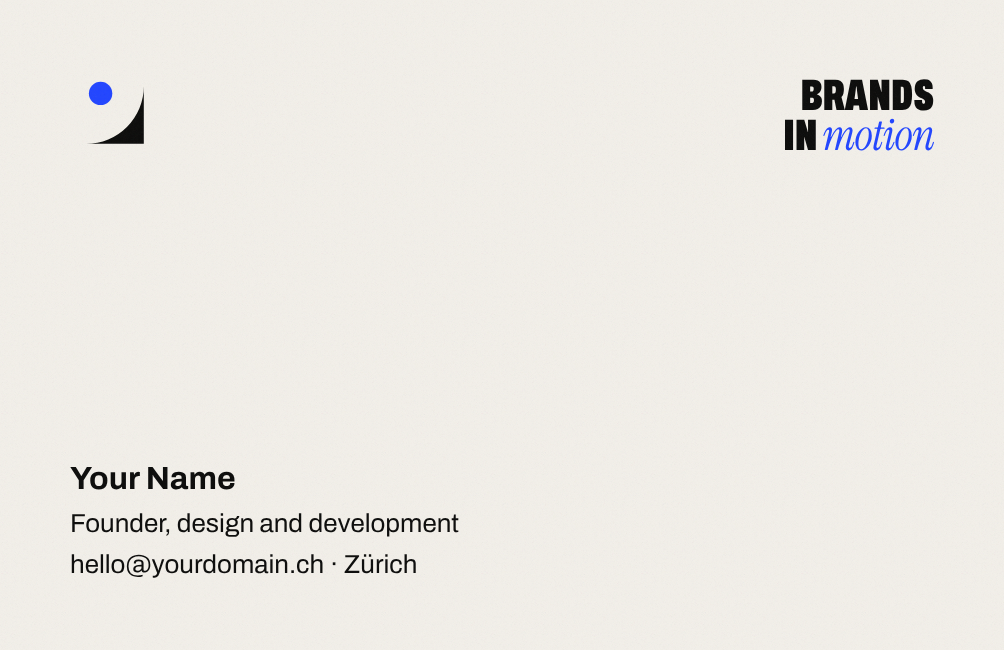
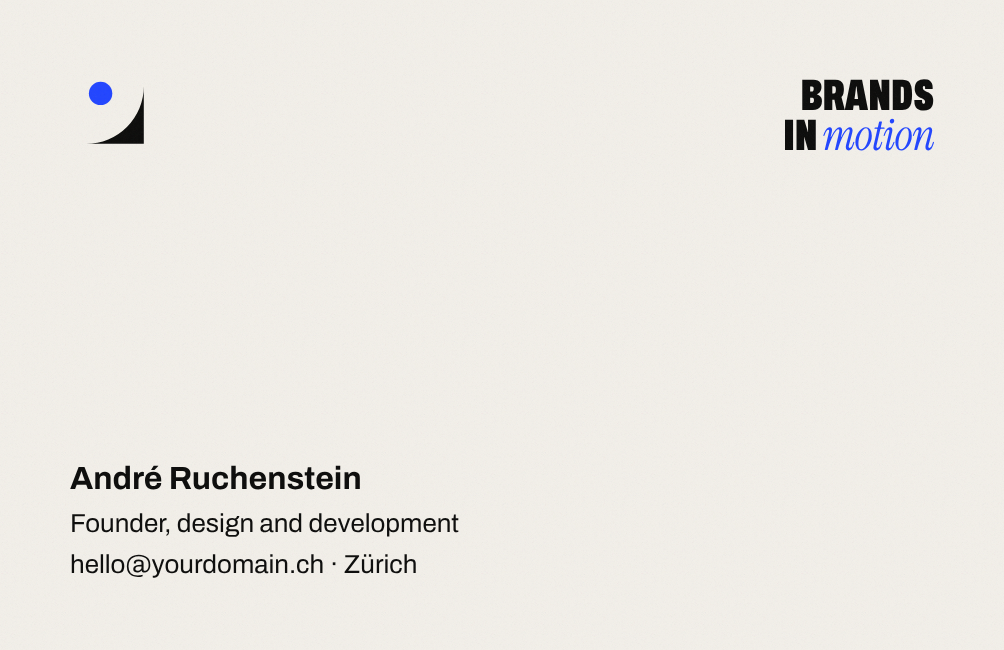
Add André Ruchenstein to business card and signature, domain notes
Claude-Session: https://claude.ai/code/session_01XBeumYXPmiveuZtxEjDWPY

Changed region(s): [[0.0618, 0.7077, 0.3705, 0.7692]]

diff --git a/Unterlagen für André/BRAND.md b/Unterlagen für André/BRAND.md
@@ -18,7 +18,7 @@ Ich konnte von hier aus nur im Web suchen, nicht in den offiziellen Registern. P
 
 1. **Firmenname:** [zefix.ch](https://www.zefix.ch) → nach "schwung" suchen.
 2. **Marke:** [swissreg.ch](https://www.swissreg.ch) (Schweiz) und [euipo.europa.eu](https://euipo.europa.eu) (EU) → Klasse 42 (Webdesign) und 35 (Werbung).
-3. **Domain:** z. B. bei hostpoint.ch: `schwung.ch` ist vermutlich vergeben. Gute Alternativen: `schwung.studio`, `schwungstudio.ch`, `studio-schwung.ch`.
+3. **Domain:** `schwung.ch` und `schwung.design` sind vergeben (sie haben schon eine Website). `schwungstudio.ch`, `schwung-studio.ch` und `schwung.studio` waren beim Test nicht belegt. Das ist ein gutes Zeichen, aber kein Beweis: vor dem Kauf beim Anbieter (z. B. hostpoint.ch) prüfen. Empfehlung: **schwungstudio.ch** (Schweizer Endung, ohne Bindestrich), E-Mail dann z. B. `andre@schwungstudio.ch`.
 4. **Social Handles:** `@schwung.studio` auf Instagram, TikTok, LinkedIn und Behance reservieren, bevor du postest.
 
 Ist der Name besetzt, hier meine Ersatz-Namen: **Hochform**, **Aufwind**, **Kinetik Studio**.
@@ -89,7 +89,7 @@ Regeln: Logo nie verzerren, nicht umfärben (ausser Schwarz/Weiss), immer Abstan
 
 ```html
 <table cellpadding="0" cellspacing="0" style="font-family:Arial,sans-serif;font-size:13px;color:#0d0d0c">
-  <tr><td style="padding-bottom:6px"><strong>Your Name</strong>, Founder</td></tr>
+  <tr><td style="padding-bottom:6px"><strong>André Ruchenstein</strong>, Founder</td></tr>
   <tr><td style="padding-bottom:10px;color:#6f6a62">schwung, Zürich</td></tr>
   <tr><td><a href="https://yourdomain.ch" style="color:#2346ff;text-decoration:none">yourdomain.ch</a></td></tr>
 </table>
@@ -100,7 +100,7 @@ Regeln: Logo nie verzerren, nicht umfärben (ausser Schwarz/Weiss), immer Abstan
 Eine Seite mit: Startbereich, SOLUM als Fallstudie, Leistungen, Ablauf in 10 Tagen, Preise, Fragen (inkl. ehrlicher Antwort zu KI), Kontaktformular. Das Formular öffnet das E-Mail-Programm des Besuchers mit der fertigen Nachricht, funktioniert also auch ohne Server.
 
 **Noch zu ersetzen, bevor sie live geht:**
-- `hello@yourdomain.ch` (5 Stellen in `index.html`) → deine echte E-Mail
+- `hello@yourdomain.ch` (auf Website, Visitenkarte und Signatur) → deine echte E-Mail, sobald die Domain steht
 - Impressum und Datenschutz (in der Schweiz Pflicht) fehlen noch. Sobald du Firmenname und Adresse hast, baue ich die Seiten und verlinke sie im Footer. Social-Links kommen dazu, sobald die Profile existieren.
 - Die Preise sind Vorschläge für den Start. Passe sie an, wie du dich wohlfühlst.
 - Im ZIP für Netlify ist SOLUM schon enthalten (`/solum/`), der Link der Fallstudie funktioniert dort.

diff --git a/schwung/BRAND.md b/schwung/BRAND.md
@@ -18,7 +18,7 @@ Ich konnte von hier aus nur im Web suchen, nicht in den offiziellen Registern. P
 
 1. **Firmenname:** [zefix.ch](https://www.zefix.ch) → nach "schwung" suchen.
 2. **Marke:** [swissreg.ch](https://www.swissreg.ch) (Schweiz) und [euipo.europa.eu](https://euipo.europa.eu) (EU) → Klasse 42 (Webdesign) und 35 (Werbung).
-3. **Domain:** z. B. bei hostpoint.ch: `schwung.ch` ist vermutlich vergeben. Gute Alternativen: `schwung.studio`, `schwungstudio.ch`, `studio-schwung.ch`.
+3. **Domain:** `schwung.ch` und `schwung.design` sind vergeben (sie haben schon eine Website). `schwungstudio.ch`, `schwung-studio.ch` und `schwung.studio` waren beim Test nicht belegt. Das ist ein gutes Zeichen, aber kein Beweis: vor dem Kauf beim Anbieter (z. B. hostpoint.ch) prüfen. Empfehlung: **schwungstudio.ch** (Schweizer Endung, ohne Bindestrich), E-Mail dann z. B. `andre@schwungstudio.ch`.
 4. **Social Handles:** `@schwung.studio` auf Instagram, TikTok, LinkedIn und Behance reservieren, bevor du postest.
 
 Ist der Name besetzt, hier meine Ersatz-Namen: **Hochform**, **Aufwind**, **Kinetik Studio**.
@@ -89,7 +89,7 @@ Regeln: Logo nie verzerren, nicht umfärben (ausser Schwarz/Weiss), immer Abstan
 
 ```html
 <table cellpadding="0" cellspacing="0" style="font-family:Arial,sans-serif;font-size:13px;color:#0d0d0c">
-  <tr><td style="padding-bottom:6px"><strong>Your Name</strong>, Founder</td></tr>
+  <tr><td style="padding-bottom:6px"><strong>André Ruchenstein</strong>, Founder</td></tr>
   <tr><td style="padding-bottom:10px;color:#6f6a62">schwung, Zürich</td></tr>
   <tr><td><a href="https://yourdomain.ch" style="color:#2346ff;text-decoration:none">yourdomain.ch</a></td></tr>
 </table>
@@ -100,7 +100,7 @@ Regeln: Logo nie verzerren, nicht umfärben (ausser Schwarz/Weiss), immer Abstan
 Eine Seite mit: Startbereich, SOLUM als Fallstudie, Leistungen, Ablauf in 10 Tagen, Preise, Fragen (inkl. ehrlicher Antwort zu KI), Kontaktformular. Das Formular öffnet das E-Mail-Programm des Besuchers mit der fertigen Nachricht, funktioniert also auch ohne Server.
 
 **Noch zu ersetzen, bevor sie live geht:**
-- `hello@yourdomain.ch` (5 Stellen in `index.html`) → deine echte E-Mail
+- `hello@yourdomain.ch` (auf Website, Visitenkarte und Signatur) → deine echte E-Mail, sobald die Domain steht
 - Impressum und Datenschutz (in der Schweiz Pflicht) fehlen noch. Sobald du Firmenname und Adresse hast, baue ich die Seiten und verlinke sie im Footer. Social-Links kommen dazu, sobald die Profile existieren.
 - Die Preise sind Vorschläge für den Start. Passe sie an, wie du dich wohlfühlst.
 - Im ZIP für Netlify ist SOLUM schon enthalten (`/solum/`), der Link der Fallstudie funktioniert dort.
